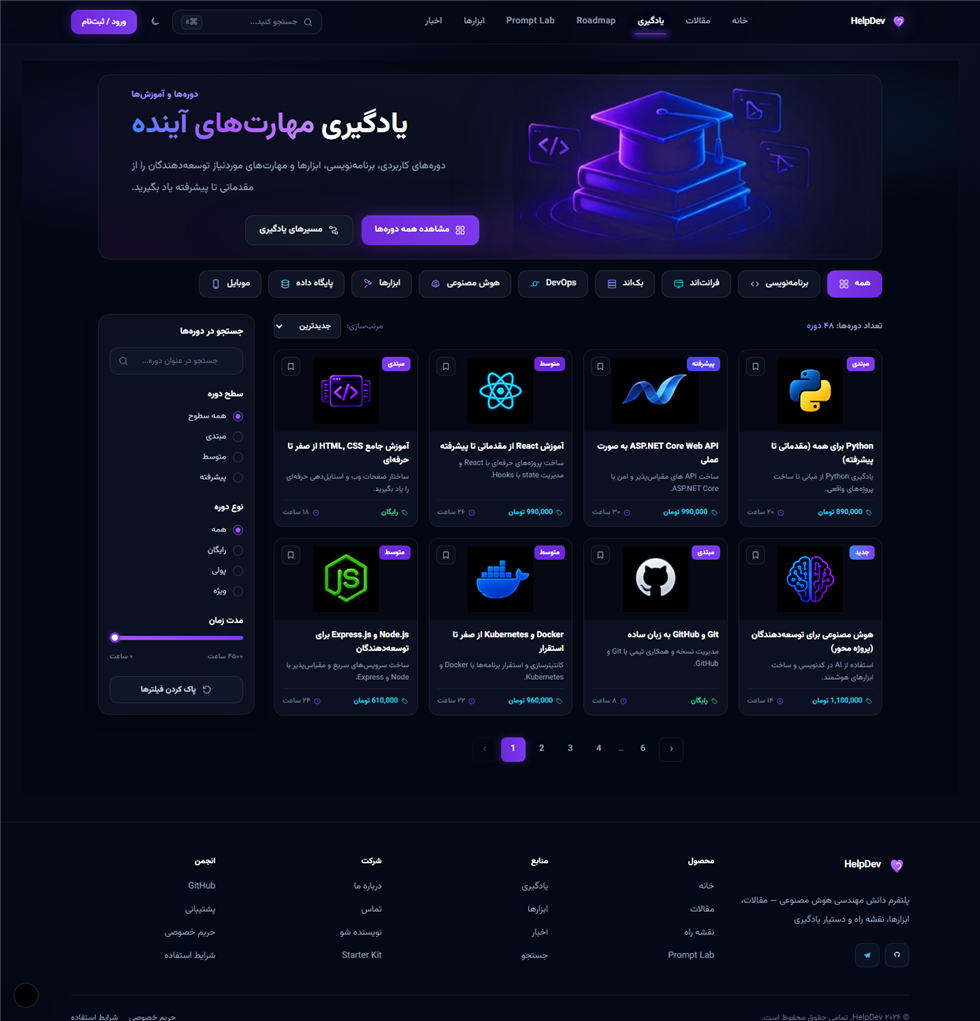
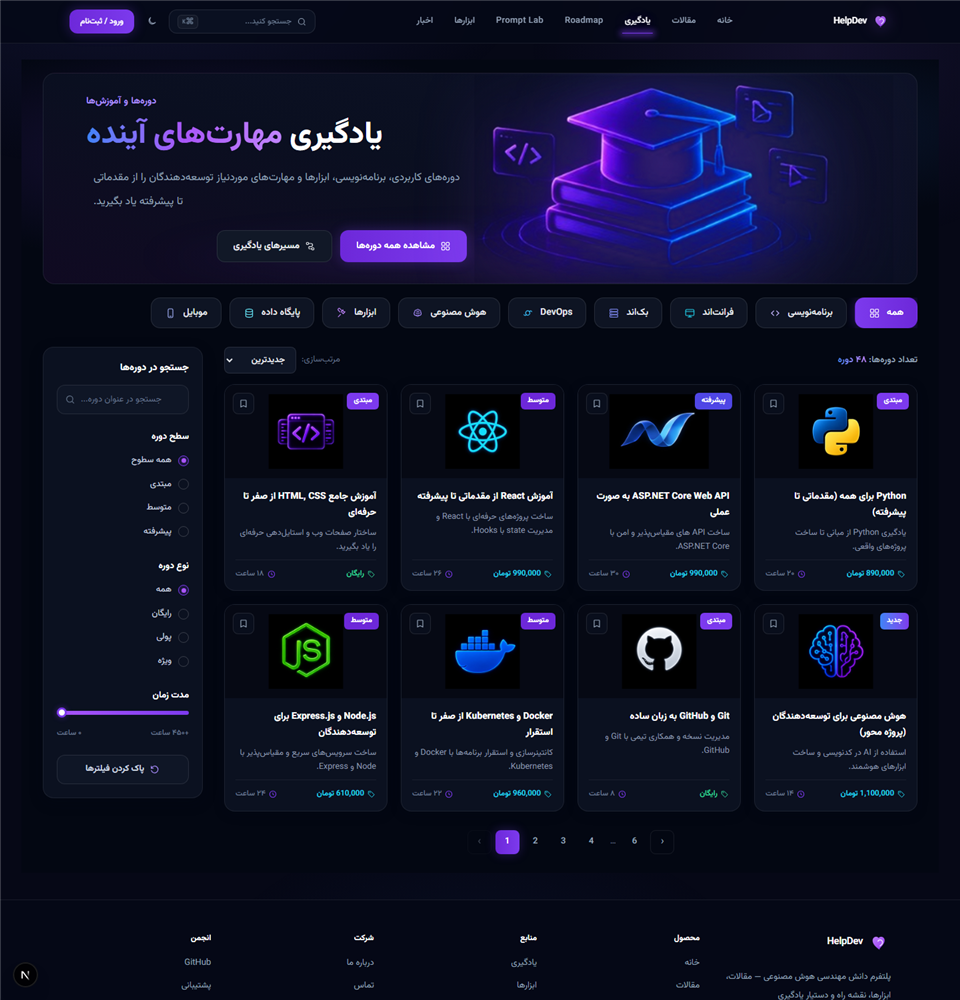
بزرگ کردن مقیاس صفحه دوره ها مطابق مرجع: کانتینر عریض تر، هیرو، سایدبار و کارت های بزرگتر

diff --git a/site/src/components/courses/courses-hero.tsx b/site/src/components/courses/courses-hero.tsx
@@ -1,4 +1,5 @@
 import Link from "next/link";
+import { CoursesContainer } from "@/components/courses/courses-container";
 
 export const COURSES_HERO_IMAGE_SRC = "/courses/hero-learning.png";
 
@@ -36,44 +37,44 @@ export function CoursesHero() {
         aria-hidden
       />
 
-      <div className="mx-auto w-full max-w-[1200px] px-4 sm:px-5 lg:px-6">
+      <CoursesContainer>
         <div className="relative overflow-hidden rounded-[18px] border border-white/[0.07] bg-gradient-to-bl from-[#0D1226] via-[#0A0F20] to-[#100A22]">
           <div
             className="pointer-events-none absolute inset-x-[10%] bottom-0 h-20 bg-[radial-gradient(ellipse_at_center,rgba(124,58,237,0.2),transparent_70%)] blur-xl"
             aria-hidden
           />
           <div
-            className="relative grid min-h-[250px] items-center gap-6 px-6 py-8 sm:px-8 md:h-[270px] md:min-h-[270px] md:grid-cols-2 md:gap-8 md:px-10 md:py-0 lg:px-12"
+            className="relative grid min-h-[260px] items-center gap-6 px-6 py-9 sm:px-8 md:h-[315px] md:min-h-[315px] md:grid-cols-2 md:gap-10 md:px-12 md:py-0 lg:px-16"
             dir="ltr"
           >
             <div className="order-2 max-w-xl text-center md:order-1 md:text-left" dir="rtl">
-              <p className="text-[12px] font-bold tracking-[0.06em] text-[#A78BFA] sm:text-[13px]">
+              <p className="text-[13px] font-bold tracking-[0.06em] text-[#A78BFA] sm:text-[14px]">
                 دورهها و آموزشها
               </p>
               <h1
                 id="courses-hero-heading"
-                className="mt-2 text-[28px] font-extrabold leading-[1.3] tracking-tight text-white sm:text-[34px] md:text-[38px] lg:text-[42px]"
+                className="mt-2.5 text-[30px] font-extrabold leading-[1.32] tracking-tight text-white sm:text-[36px] md:text-[42px] lg:text-[46px]"
               >
                 یادگیری{" "}
                 <span className="bg-gradient-to-l from-[#C084FC] via-[#A855F7] to-[#3B82F6] bg-clip-text text-transparent">
                   مهارتهای آینده
                 </span>
               </h1>
-              <p className="mt-4 max-w-[520px] text-[14px] leading-8 text-[#94A3B8] sm:text-[15px]">
+              <p className="mt-4 max-w-[560px] text-[15px] leading-9 text-[#94A3B8] sm:text-[16px]">
                 دورههای کاربردی، برنامهنویسی، ابزارها و مهارتهای موردنیاز توسعهدهندگان را از مقدماتی تا پیشرفته یاد بگیرید.
               </p>
 
               <div className="mt-6 flex flex-col items-stretch gap-3 sm:flex-row sm:items-center sm:justify-center md:justify-start">
                 <Link
                   href="#courses-grid"
-                  className="focus-ring inline-flex h-11 items-center justify-center gap-2 rounded-xl bg-gradient-to-l from-[#7C3AED] to-[#6D28D9] px-5 text-[13px] font-bold text-white no-underline shadow-[0_0_18px_rgba(124,58,237,0.3)] transition hover:brightness-110"
+                  className="focus-ring inline-flex h-12 items-center justify-center gap-2 rounded-xl bg-gradient-to-l from-[#7C3AED] to-[#6D28D9] px-6 text-[14px] font-bold text-white no-underline shadow-[0_0_18px_rgba(124,58,237,0.3)] transition hover:brightness-110"
                 >
                   <GridIcon className="h-4 w-4 shrink-0" />
                   مشاهده همه دورهها
                 </Link>
                 <Link
                   href="/roadmap"
-                  className="focus-ring inline-flex h-11 items-center justify-center gap-2 rounded-xl border border-white/[0.1] bg-[#111827] px-5 text-[13px] font-bold text-[#E5E7EB] no-underline transition hover:border-[rgba(168,85,247,0.4)] hover:text-white"
+                  className="focus-ring inline-flex h-12 items-center justify-center gap-2 rounded-xl border border-white/[0.1] bg-[#111827] px-6 text-[14px] font-bold text-[#E5E7EB] no-underline transition hover:border-[rgba(168,85,247,0.4)] hover:text-white"
                 >
                   <PathIcon className="h-4 w-4 shrink-0" />
                   مسیرهای یادگیری
@@ -82,7 +83,7 @@ export function CoursesHero() {
             </div>
 
             <div className="order-1 flex items-center justify-center md:order-2 md:justify-end">
-              <div className="relative flex h-[170px] w-full max-w-[330px] items-center justify-center sm:h-[200px] sm:max-w-[420px] md:h-[240px] md:max-w-[470px]">
+              <div className="relative flex h-[180px] w-full max-w-[340px] items-center justify-center sm:h-[220px] sm:max-w-[440px] md:h-[290px] md:max-w-[580px]">
                 <span
                   className="pointer-events-none absolute inset-0 rounded-full bg-[radial-gradient(circle,rgba(124,58,237,0.35),rgba(59,130,246,0.12)_52%,transparent_74%)] blur-2xl"
                   aria-hidden
@@ -101,7 +102,7 @@ export function CoursesHero() {
             </div>
           </div>
         </div>
-      </div>
+      </CoursesContainer>
     </section>
   );
 }

diff --git a/site/src/components/courses/courses-filters-sidebar.tsx b/site/src/components/courses/courses-filters-sidebar.tsx
@@ -59,7 +59,7 @@ function OptionRow({
   name: string;
 }) {
   return (
-    <label className="flex cursor-pointer items-center gap-2.5 py-1.5 text-[12px] text-[#CBD5E1] transition hover:text-white">
+    <label className="flex cursor-pointer items-center gap-2.5 py-2 text-[13px] text-[#CBD5E1] transition hover:text-white">
       <input
         type="radio"
         name={name}
@@ -69,7 +69,7 @@ function OptionRow({
       />
       <span
         className={[
-          "flex h-[15px] w-[15px] shrink-0 items-center justify-center rounded-full border transition",
+          "flex h-4 w-4 shrink-0 items-center justify-center rounded-full border transition",
           checked ? "border-[#7C3AED] bg-[#7C3AED]/15" : "border-white/[0.18] bg-transparent",
         ].join(" ")}
         aria-hidden
@@ -85,12 +85,12 @@ function OptionRow({
 export function CoursesFiltersSidebar({ value, onChange, onReset }: Props) {
   return (
     <div
-      className="rounded-[16px] border border-white/[0.07] bg-[#0B1120] p-4 shadow-[0_6px_20px_rgba(2,6,23,0.28)]"
+      className="rounded-[16px] border border-white/[0.07] bg-[#0B1120] p-5 shadow-[0_6px_20px_rgba(2,6,23,0.28)]"
       dir="rtl"
     >
-      <h2 className="text-[13px] font-extrabold text-white">جستجو در دورهها</h2>
+      <h2 className="text-[14.5px] font-extrabold text-white">جستجو در دورهها</h2>
 
-      <div className="relative mt-3">
+      <div className="relative mt-3.5">
         <span className="pointer-events-none absolute inset-y-0 left-3 flex items-center text-[#64748B]">
           <SearchIcon className="h-4 w-4" />
         </span>
@@ -100,12 +100,12 @@ export function CoursesFiltersSidebar({ value, onChange, onReset }: Props) {
           onChange={(event) => onChange({ ...value, query: event.target.value })}
           placeholder="جستجو در عنوان دوره..."
           aria-label="جستجو در عنوان دوره"
-          className="h-10 w-full rounded-xl border border-white/[0.09] bg-[#0F1626] pe-3 ps-9 text-[12px] text-white outline-none transition placeholder:text-[#64748B] focus:border-[rgba(168,85,247,0.45)]"
+          className="h-11 w-full rounded-xl border border-white/[0.09] bg-[#0F1626] pe-3.5 ps-10 text-[13px] text-white outline-none transition placeholder:text-[#64748B] focus:border-[rgba(168,85,247,0.45)]"
         />
       </div>
 
-      <div className="mt-5">
-        <h3 className="text-[12.5px] font-bold text-white">سطح دوره</h3>
+      <div className="mt-6">
+        <h3 className="text-[13.5px] font-bold text-white">سطح دوره</h3>
         <div className="mt-2">
           {COURSE_LEVEL_FILTERS.map((item) => (
             <OptionRow
@@ -119,8 +119,8 @@ export function CoursesFiltersSidebar({ value, onChange, onReset }: Props) {
         </div>
       </div>
 
-      <div className="mt-5">
-        <h3 className="text-[12.5px] font-bold text-white">نوع دوره</h3>
+      <div className="mt-6">
+        <h3 className="text-[13.5px] font-bold text-white">نوع دوره</h3>
         <div className="mt-2">
           {COURSE_PRICE_FILTERS.map((item) => (
             <OptionRow
@@ -134,8 +134,8 @@ export function CoursesFiltersSidebar({ value, onChange, onReset }: Props) {
         </div>
       </div>
 
-      <div className="mt-5">
-        <h3 className="text-[12.5px] font-bold text-white">مدت زمان</h3>
+      <div className="mt-6">
+        <h3 className="text-[13.5px] font-bold text-white">مدت زمان</h3>
         <input
           type="range"
           min={0}
@@ -147,7 +147,7 @@ export function CoursesFiltersSidebar({ value, onChange, onReset }: Props) {
           className="courses-range mt-3 w-full"
           style={{ "--range-fill": `${(value.maxHours / COURSES_MAX_HOURS) * 100}%` } as React.CSSProperties}
         />
-        <div className="mt-2 flex items-center justify-between text-[10.5px] font-semibold text-[#64748B]">
+        <div className="mt-2.5 flex items-center justify-between text-[11.5px] font-semibold text-[#64748B]">
           <span>+۴۵۰ ساعت</span>
           <span>۰ ساعت</span>
         </div>
@@ -156,7 +156,7 @@ export function CoursesFiltersSidebar({ value, onChange, onReset }: Props) {
       <button
         type="button"
         onClick={onReset}
-        className="mt-5 inline-flex h-10 w-full items-center justify-center gap-2 rounded-xl border border-white/[0.1] bg-[#0F1626] text-[12px] font-bold text-[#CBD5E1] transition hover:border-[rgba(168,85,247,0.4)] hover:text-white"
+        className="mt-6 inline-flex h-11 w-full items-center justify-center gap-2 rounded-xl border border-white/[0.1] bg-[#0F1626] text-[13px] font-bold text-[#CBD5E1] transition hover:border-[rgba(168,85,247,0.4)] hover:text-white"
       >
         <ResetIcon className="h-4 w-4 text-[#A78BFA]" />
         پاک کردن فیلترها

diff --git a/site/src/components/courses/course-card.tsx b/site/src/components/courses/course-card.tsx
@@ -48,22 +48,22 @@ export function CourseCard({ course }: CourseCardProps) {
 
   return (
     <article
-      className="group flex h-full min-w-0 flex-col overflow-hidden rounded-[14px] border border-white/[0.07] bg-[#0B1120] transition duration-200 hover:border-[rgba(168,85,247,0.3)]"
+      className="group flex h-full min-w-0 flex-col overflow-hidden rounded-[16px] border border-white/[0.07] bg-[#0B1120] shadow-[0_4px_16px_rgba(2,6,23,0.25)] transition duration-200 hover:border-[rgba(168,85,247,0.3)]"
       dir="rtl"
     >
-      <div className="relative h-[120px] shrink-0 overflow-hidden bg-[#060914]">
+      <div className="relative h-[140px] shrink-0 overflow-hidden bg-[#060914]">
         <img
           src={course.image}
           alt=""
-          width={320}
-          height={120}
+          width={360}
+          height={140}
           loading="lazy"
           decoding="async"
           className="h-full w-full object-cover transition duration-500 group-hover:scale-[1.04]"
         />
         <span
           className={[
-            "absolute right-2.5 top-2.5 inline-flex items-center rounded-md px-2 py-[3px] text-[10px] font-bold",
+            "absolute right-3 top-3 inline-flex items-center rounded-md px-2.5 py-[4px] text-[11px] font-bold",
             BADGE_STYLE[course.levelLabel] ?? "bg-[#7C3AED] text-white",
           ].join(" ")}
         >
@@ -75,34 +75,34 @@ export function CourseCard({ course }: CourseCardProps) {
           aria-pressed={saved}
           aria-label={saved ? "حذف از ذخیرهها" : "افزودن به ذخیرهها"}
           className={[
-            "absolute left-2.5 top-2.5 inline-flex h-7 w-7 items-center justify-center rounded-lg border border-white/[0.1] bg-[#0B1120]/70 backdrop-blur-sm transition",
+            "absolute left-3 top-3 inline-flex h-8 w-8 items-center justify-center rounded-lg border border-white/[0.1] bg-[#0B1120]/70 backdrop-blur-sm transition",
             saved ? "text-[#A855F7]" : "text-[#94A3B8] hover:text-white",
           ].join(" ")}
         >
-          <BookmarkIcon className="h-3.5 w-3.5" filled={saved} />
+          <BookmarkIcon className="h-4 w-4" filled={saved} />
         </button>
       </div>
 
-      <div className="flex min-w-0 flex-1 flex-col gap-1.5 p-3">
-        <h3 className="line-clamp-2 text-[12.5px] font-extrabold leading-5 text-white">
+      <div className="flex min-w-0 flex-1 flex-col gap-2 p-4">
+        <h3 className="line-clamp-2 text-[14px] font-extrabold leading-6 text-white">
           {course.title}
         </h3>
-        <p className="line-clamp-2 text-[11px] leading-[18px] text-[#8B98AC]">
+        <p className="line-clamp-2 text-[12.5px] leading-[21px] text-[#8B98AC]">
           {course.description}
         </p>
 
-        <div className="mt-auto flex items-center justify-between gap-2 border-t border-white/[0.06] pt-2.5 text-[10.5px] font-semibold">
+        <div className="mt-auto flex items-center justify-between gap-2 border-t border-white/[0.06] pt-3 text-[11.5px] font-semibold">
           <span
             className={[
               "inline-flex items-center gap-1 whitespace-nowrap",
               isFree ? "text-[#34D399]" : "text-[#22D3EE]",
             ].join(" ")}
           >
-            <TagIcon className="h-3 w-3 shrink-0" />
+            <TagIcon className="h-3.5 w-3.5 shrink-0" />
             <bdi>{formatCoursePrice(course.price)}</bdi>
           </span>
           <span className="inline-flex items-center gap-1 whitespace-nowrap text-[#64748B]">
-            <ClockIcon className="h-3 w-3 shrink-0 text-[#7C3AED]" />
+            <ClockIcon className="h-3.5 w-3.5 shrink-0 text-[#7C3AED]" />
             <bdi>{course.duration}</bdi>
           </span>
         </div>

diff --git a/site/src/components/courses/courses-catalog.tsx b/site/src/components/courses/courses-catalog.tsx
@@ -91,9 +91,9 @@ export function CoursesCatalog({ courses }: CoursesCatalogProps) {
   }
 
   return (
-    <section id="courses-grid" className="bg-[#030712] pb-12 pt-1" dir="rtl">
+    <section id="courses-grid" className="bg-[#030712] pb-7 pt-2" dir="rtl">
       <CoursesContainer>
-        <div className="mb-6">
+        <div className="mb-7">
           <CoursesCategoryBar
             active={category}
             onSelect={(value) => {
@@ -103,7 +103,7 @@ export function CoursesCatalog({ courses }: CoursesCatalogProps) {
           />
         </div>
 
-        <div className="grid items-start gap-6 lg:grid-cols-[minmax(0,1fr)_230px] lg:gap-7">
+        <div className="grid items-start gap-6 lg:grid-cols-[minmax(0,1fr)_240px] lg:gap-8">
           <div className="order-1 lg:order-2">
             <button
               type="button"
@@ -128,20 +128,20 @@ export function CoursesCatalog({ courses }: CoursesCatalogProps) {
 
           <div className="order-2 min-w-0 lg:order-1">
             <div className="mb-4 flex flex-wrap items-center justify-between gap-3">
-              <p className="text-[12.5px] font-semibold text-[#94A3B8]">
+              <p className="text-[13.5px] font-semibold text-[#94A3B8]">
                 تعداد دورهها:{" "}
                 <span className="bg-gradient-to-l from-[#C084FC] to-[#3B82F6] bg-clip-text font-extrabold text-transparent">
                   {toPersianDigits(totalLabel)} دوره
                 </span>
               </p>
 
-              <label className="inline-flex items-center gap-2 text-[12px] text-[#64748B]">
+              <label className="inline-flex items-center gap-2 text-[13px] text-[#64748B]">
                 مرتبسازی:
                 <select
                   value={sort}
                   onChange={(event) => setSort(event.target.value as SortId)}
                   aria-label="مرتبسازی دورهها"
-                  className="h-9 rounded-lg border border-white/[0.1] bg-[#0F1626] px-2.5 text-[12px] font-semibold text-[#E5E7EB] outline-none transition focus:border-[rgba(168,85,247,0.45)]"
+                  className="h-10 rounded-lg border border-white/[0.1] bg-[#0F1626] px-3 text-[13px] font-semibold text-[#E5E7EB] outline-none transition focus:border-[rgba(168,85,247,0.45)]"
                 >
                   {SORT_OPTIONS.map((option) => (
                     <option key={option.id} value={option.id}>
@@ -153,7 +153,7 @@ export function CoursesCatalog({ courses }: CoursesCatalogProps) {
             </div>
 
             {visible.length > 0 ? (
-              <div className="grid grid-cols-1 gap-4 sm:grid-cols-2 xl:grid-cols-4">
+              <div className="grid grid-cols-1 gap-5 sm:grid-cols-2 xl:grid-cols-4">
                 {visible.map((course) => (
                   <CourseCard key={course.id} course={course} />
                 ))}
@@ -189,7 +189,7 @@ function CoursesPagination({
 
   return (
     <nav
-      className="flex flex-wrap items-center justify-center gap-1.5 pt-8"
+      className="flex flex-wrap items-center justify-center gap-1.5 pt-7"
       aria-label="صفحهبندی دورهها"
       dir="ltr"
     >

diff --git a/site/src/components/courses/courses-category-bar.tsx b/site/src/components/courses/courses-category-bar.tsx
@@ -24,7 +24,7 @@ const ICON_COLOR: Record<string, string> = {
 
 function CategoryIcon({ name, color }: { name: string; color: string }) {
   const s = color;
-  const cls = "h-4 w-4 shrink-0";
+  const cls = "h-[17px] w-[17px] shrink-0";
 
   switch (name) {
     case "code":
@@ -107,7 +107,7 @@ export function CoursesCategoryBar({ active, onSelect }: CoursesCategoryBarProps
       dir="rtl"
     >
       <div
-        className="flex w-max min-w-full flex-nowrap items-center justify-start gap-2.5"
+        className="flex w-max min-w-full flex-nowrap items-center justify-start gap-3"
         role="toolbar"
         aria-label="فیلتر دستهبندی دورهها"
       >
@@ -120,7 +120,7 @@ export function CoursesCategoryBar({ active, onSelect }: CoursesCategoryBarProps
               aria-pressed={isActive}
               onClick={() => onSelect(item.id)}
               className={[
-                "inline-flex h-[40px] shrink-0 items-center gap-2 rounded-[12px] border px-4 text-[13px] font-semibold transition duration-200",
+                "inline-flex h-[46px] shrink-0 items-center gap-2.5 rounded-[14px] border px-5 text-[14px] font-semibold transition duration-200",
                 isActive
                   ? "border-transparent bg-gradient-to-r from-[#7C3AED] to-[#6D28D9] text-white shadow-[0_0_16px_rgba(124,58,237,0.35)]"
                   : "border-white/[0.1] bg-[#0F1626]/90 text-[#E5E7EB] hover:border-[rgba(168,85,247,0.4)] hover:bg-[#151E33] hover:text-white",

diff --git a/site/src/components/courses/courses-container.tsx b/site/src/components/courses/courses-container.tsx
@@ -7,7 +7,7 @@ export function CoursesContainer({
   className?: string;
 }) {
   return (
-    <div className={["mx-auto w-full max-w-[1200px] px-4 sm:px-5 lg:px-6", className].join(" ")}>
+    <div className={["mx-auto w-full max-w-[1440px] px-4 sm:px-6 lg:px-8", className].join(" ")}>
       {children}
     </div>
   );
